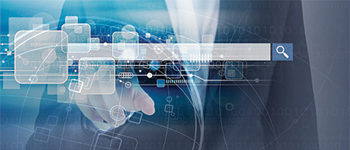
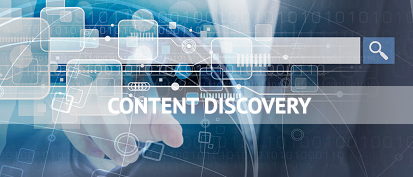
update

diff --git a/product/index.html b/product/index.html
@@ -234,13 +234,7 @@
   <div class=" seven wide column">
   <div class="ui grid">
   <div class="sixteen wide column">
-  <div class="imagemiddle"><img class="ui fluid image" src="/img/flockrush-content-discovery-350x150.jpg" alt="Flockrush Content Discovery 350x150">
-<h-image>
-  <span>CONTENT DISCOVERY<span class="spacer">
-</span></span>
-</h-image></div>
-  <p>
-</p>
+  <img class="ui fluid image" src="/img/flockrush-content-discovery-350x150.jpg" alt="Flockrush Content Discovery 350x150">
 </div>
   <div class="sixteen wide left bottom aligned column">
   <p class="p-em-166">Our latest content discovery resources:

diff --git a/css/styles.css b/css/styles.css
@@ -153,32 +153,6 @@ h5 {
    width: 100%; /* for IE 6 */
 }
 
-h-image {
-   position: relative;
-   top: 200px;
-   left: 0;
-   width: 100%;
-}
-
-h-image span {
-  position:absolute;
-  top:50%;
-  left:0;
-  right:0;
-  text-align:center;
-  padding:10px 0;
-   color: white;
-   font: bold 24px/45px Helvetica, Sans-Serif;
-   letter-spacing: -1px;
-   background: #bababa; /* fallback color */
-   background: #bababa;
-   padding: 10px;
-}
-
-h-image span.spacer {
-   padding:0 5px;
-}
-
 
 .h-small {
   font-size:1.4em!important;

diff --git a/src/product.md b/src/product.md
@@ -125,13 +125,7 @@ layout: product.html
   <div class=" seven wide column">
   <div class="ui grid">
   <div class="sixteen wide column">
-  <div class="imagemiddle"><img class="ui fluid image" src="/img/flockrush-content-discovery-350x150.jpg" alt="Flockrush Content Discovery 350x150">
-<h-image>
-  <span>CONTENT DISCOVERY<span class="spacer">
-</span></span>
-</h-image></div>
-  <p>
-</p>
+  <img class="ui fluid image" src="/img/flockrush-content-discovery-350x150.jpg" alt="Flockrush Content Discovery 350x150">
 </div>
   <div class="sixteen wide left bottom aligned column">
   <p class="p-em-166">Our latest content discovery resources:
